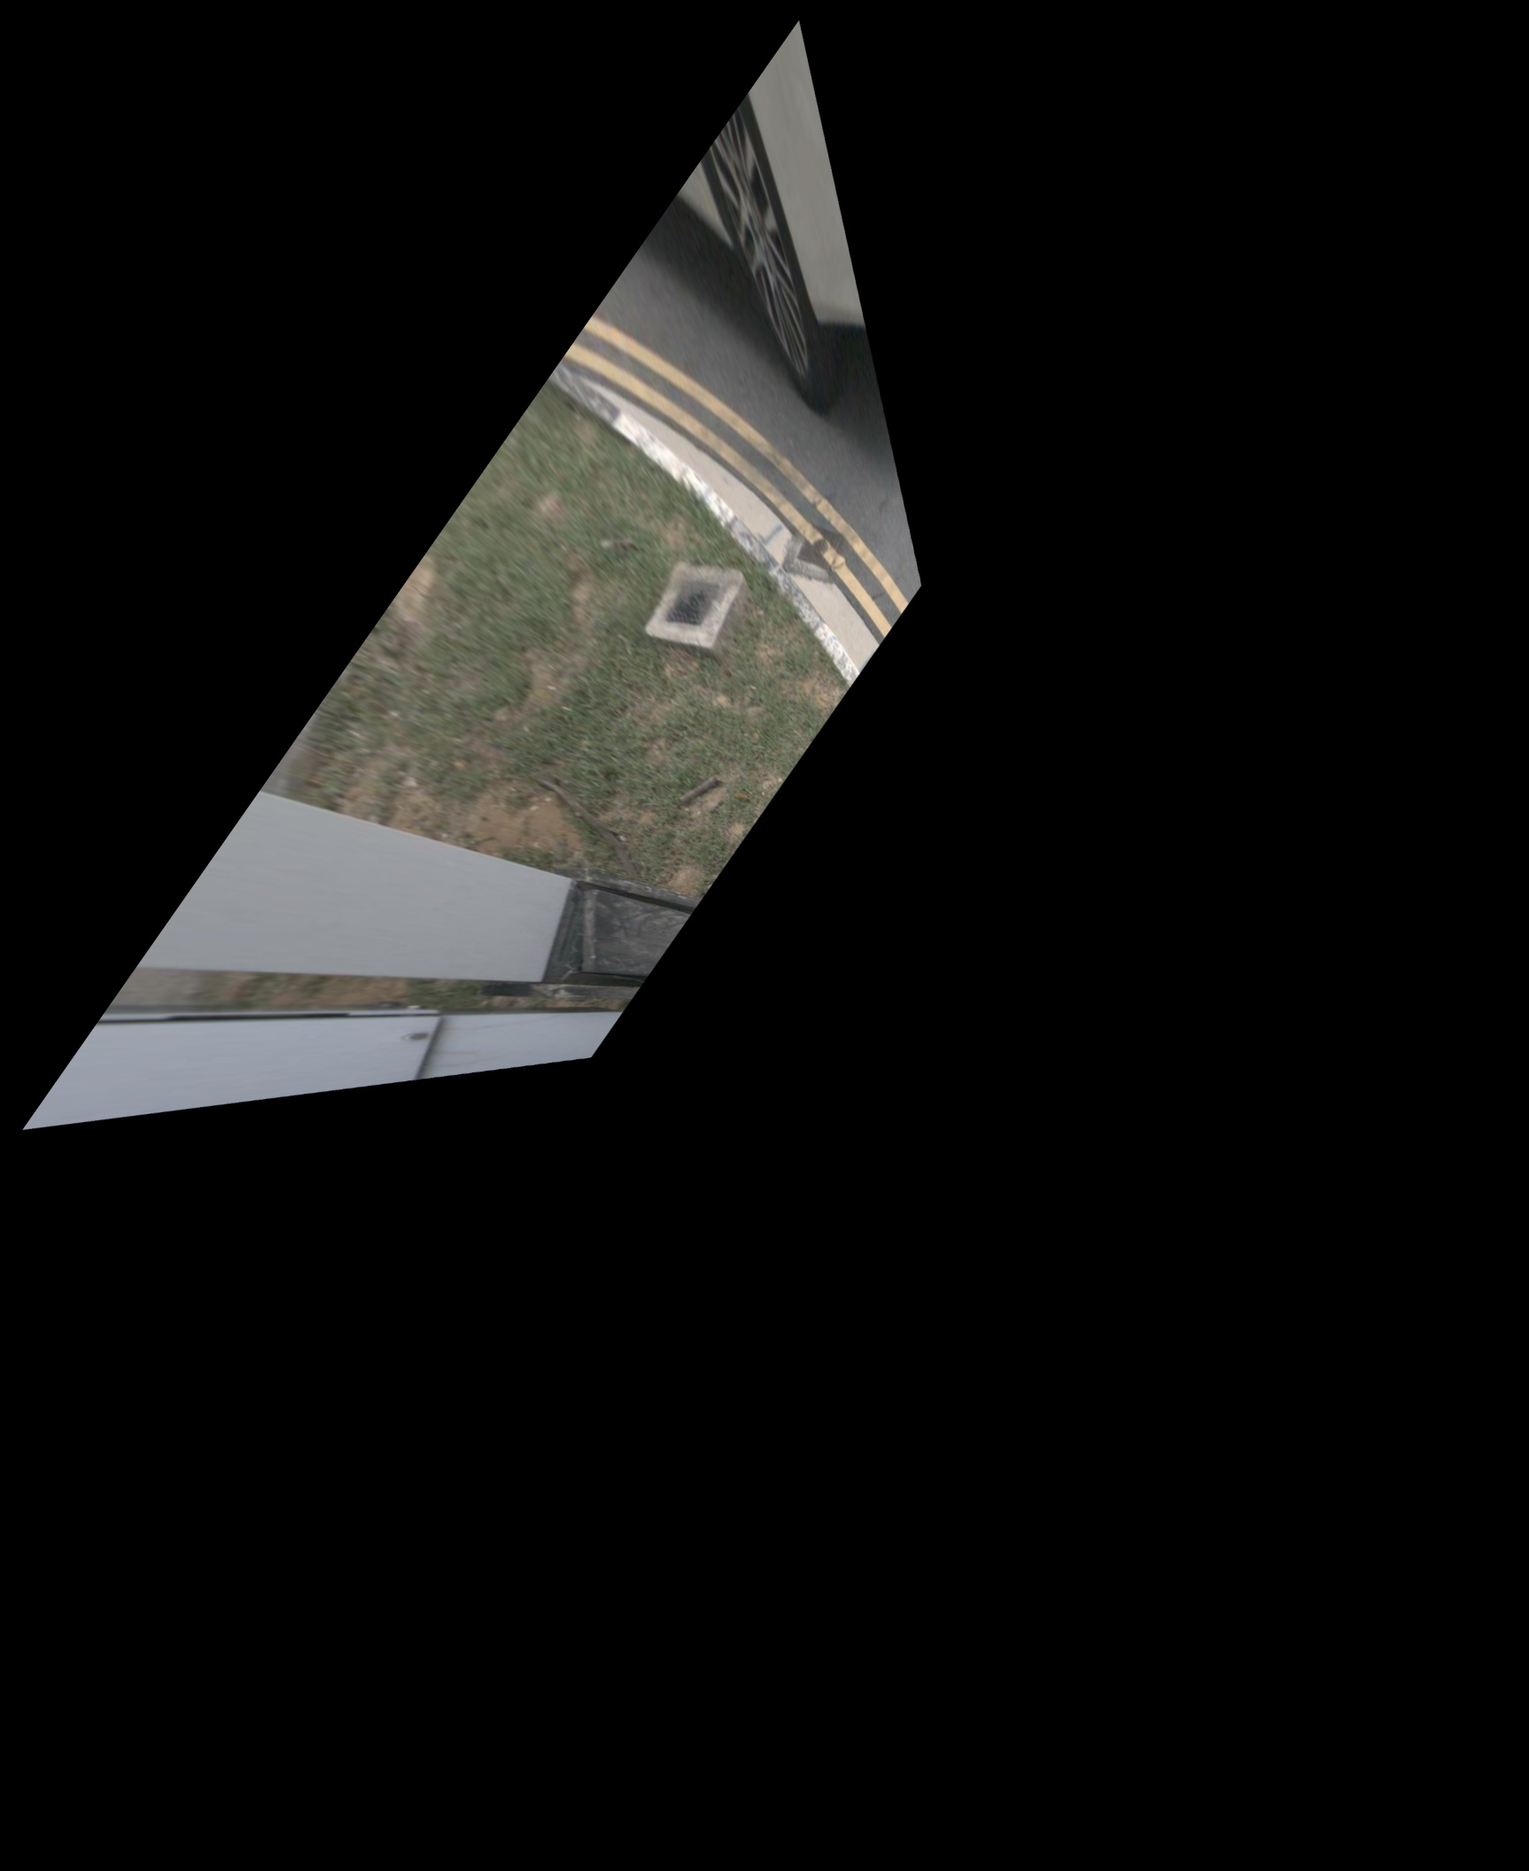
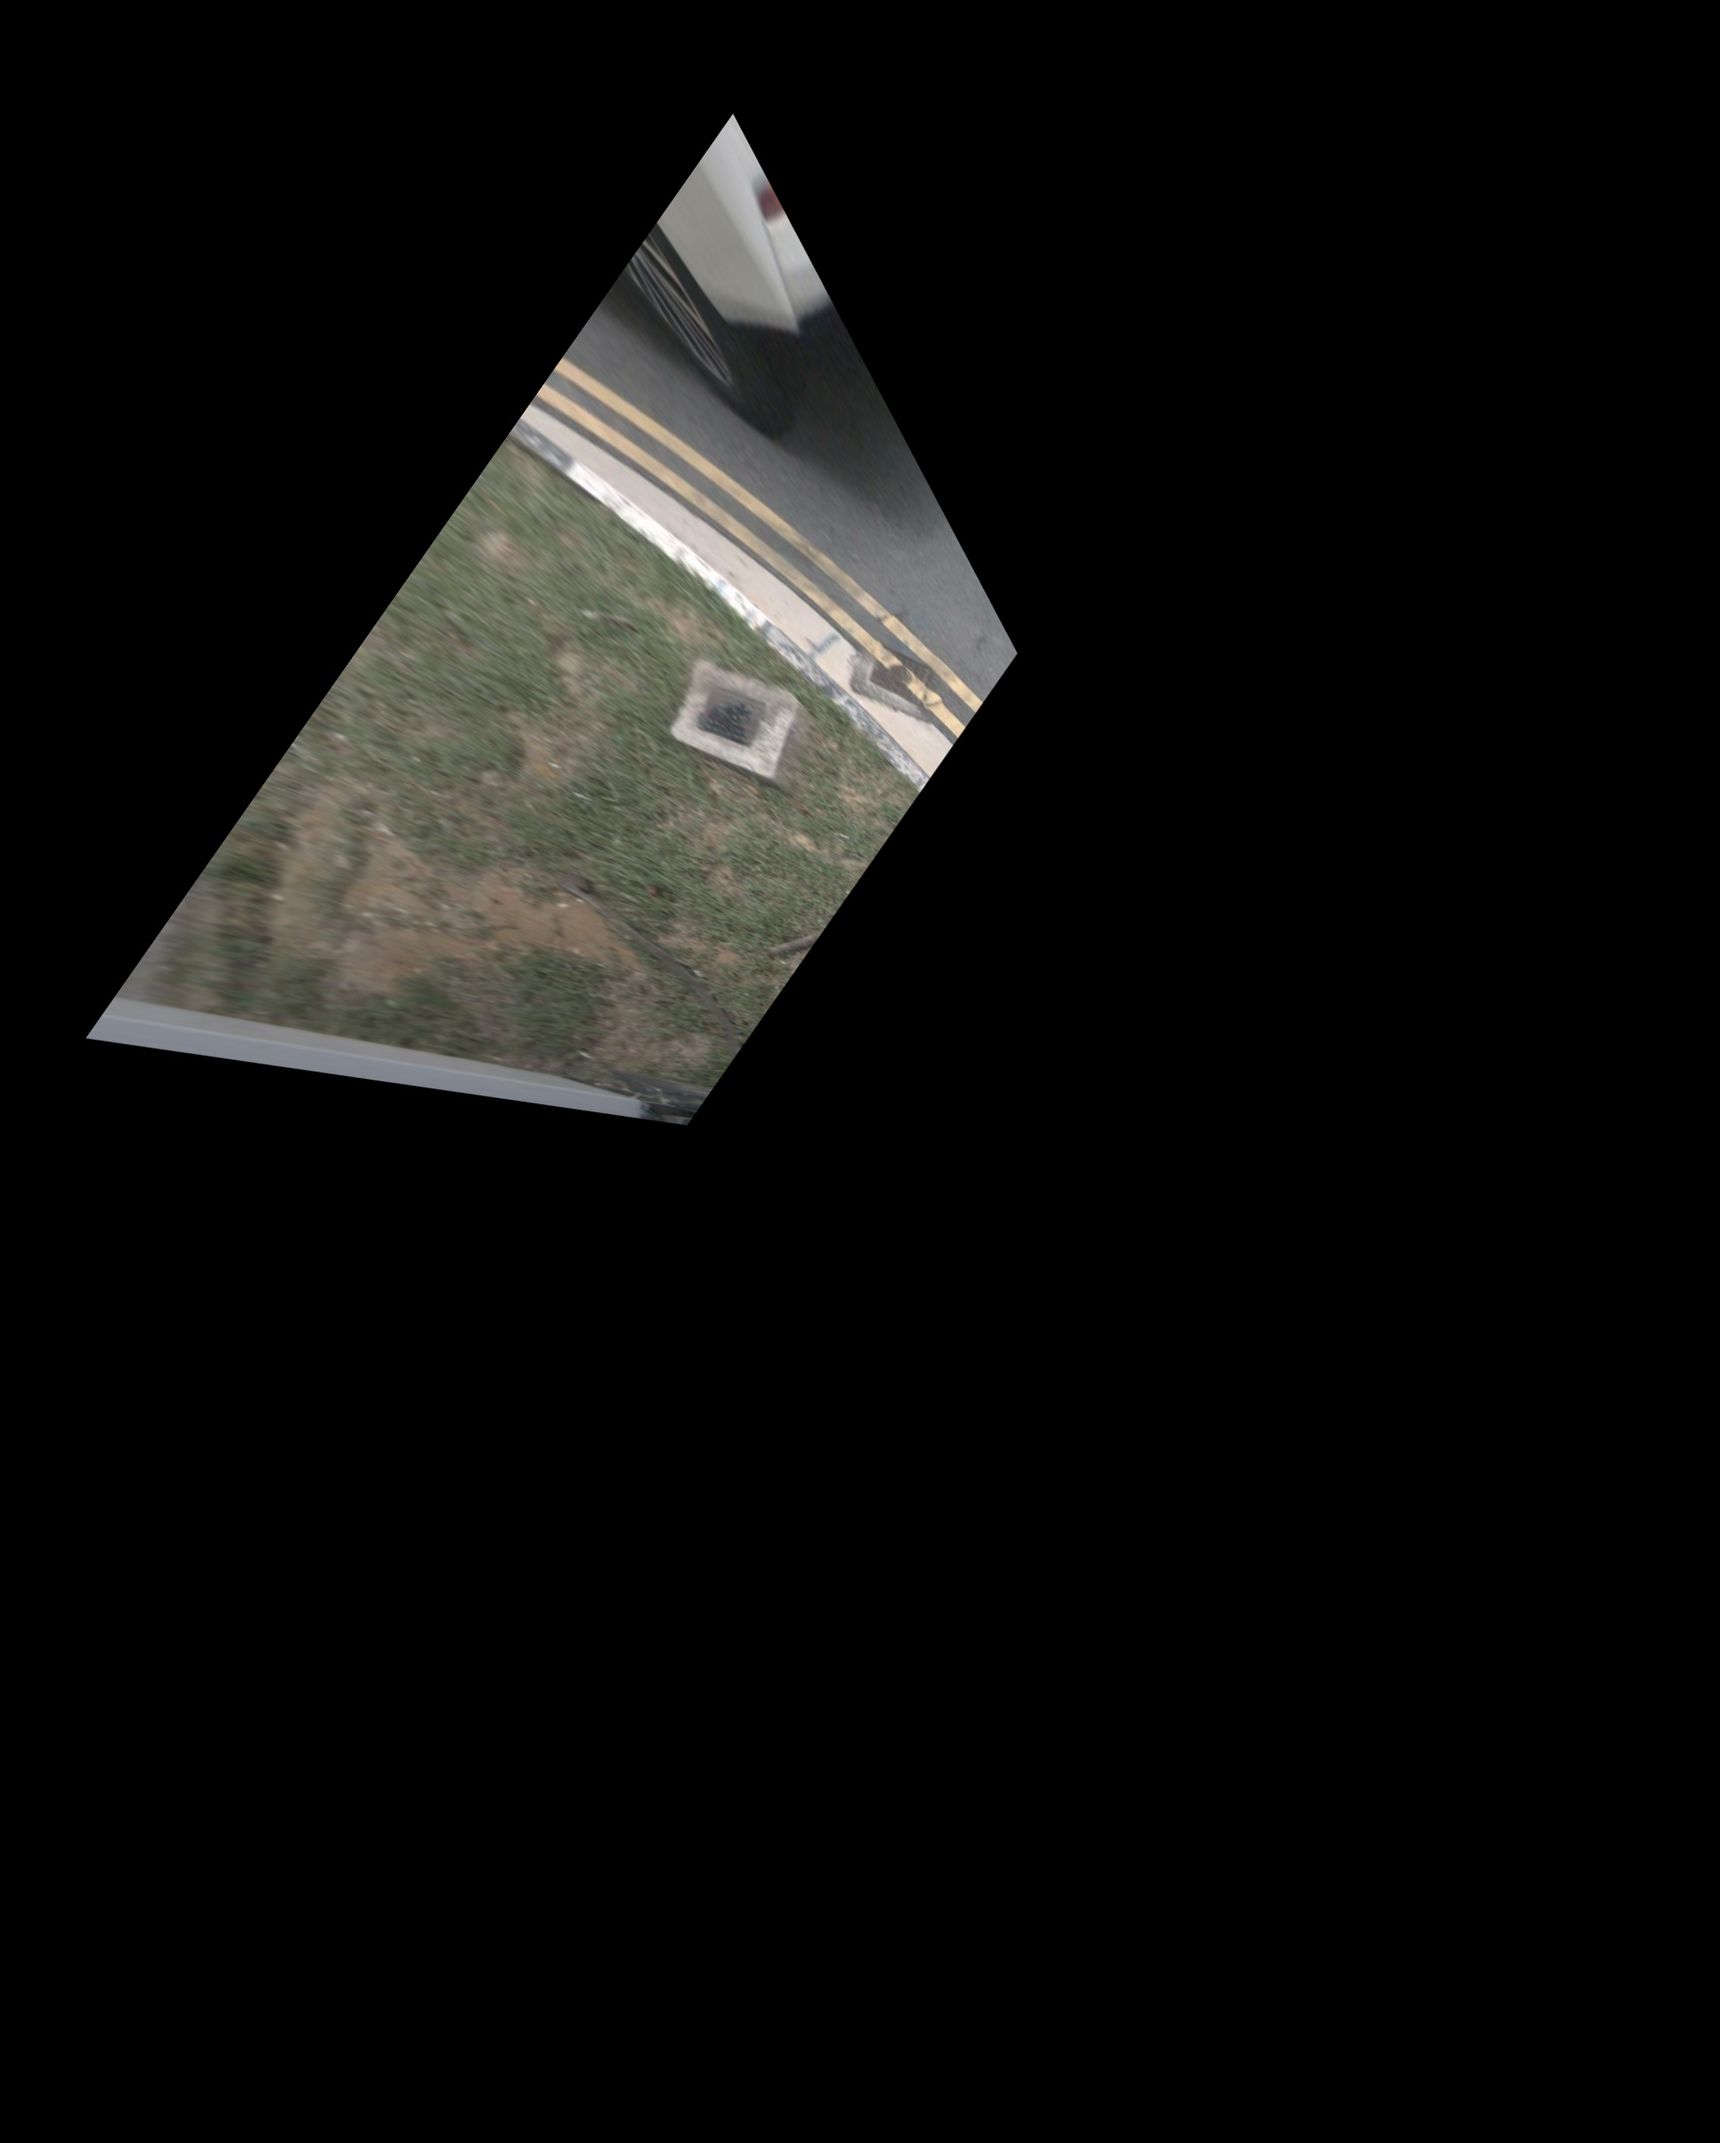
try test diff params & remove back img

Changed region(s): [[0.0, 0.0, 0.6141, 0.6158]]

diff --git a/src/image_process.cpp b/src/image_process.cpp
@@ -90,23 +90,23 @@ cv::Mat ImageProcess::CutImageMask(cv::Mat image){
     cv::threshold(mask, mask, 1, 255, cv::THRESH_BINARY);
 
     // Shi-Tomasi corners detection
-    // cv::Mat mask_with_corner = mask.clone();
-    // std::vector<cv::Point2f> corners;   // corners's postion
-	// int maxcorners = 4;                 // maximal corners' number to be detected
-	// double qualityLevel = 0.1;          // minimal eigenvalue
-	// double minDistance = 600;	        // minimal distance between corners
-	// int blockSize = 25;
-	// double  k = 0.04;                   // weight coefficient
+    cv::Mat mask_with_corner = mask.clone();
+    std::vector<cv::Point2f> corners;   // corners's postion
+	int maxcorners = 6;                 // maximal corners' number to be detected
+	double qualityLevel = 0.1;          // minimal eigenvalue
+	double minDistance = 400;	        // minimal distance between corners
+	int blockSize = 50;
+	double  k = 0.04;                   // weight coefficient
  
-	// cv::goodFeaturesToTrack(mask_with_corner, corners, maxcorners, qualityLevel, minDistance, cv::Mat(), blockSize, false, k);
+	cv::goodFeaturesToTrack(mask_with_corner, corners, maxcorners, qualityLevel, minDistance, cv::Mat(), blockSize, false, k);
  
-	// std::cout << "Corners number: " << corners.size() << std::endl; // output info
+	std::cout << "Corners number: " << corners.size() << std::endl; // output info
 
-	// for (unsigned i = 0; i < corners.size(); i++)
-	// {
-	// 	circle(mask_with_corner, corners[i], 10, cv::Scalar(0,255,255),4);  // draw corners
-	// 	std::cout << "Corner location: " << corners[i] << std::endl;     // output corners' position
-	// }
+	for (unsigned i = 0; i < corners.size(); i++)
+	{
+		circle(mask_with_corner, corners[i], 10, cv::Scalar(0,255,255),4);  // draw corners
+		std::cout << "Corner location: " << corners[i] << std::endl;     // output corners' position
+	}
 
     // detect outline
     // std::vector<std::vector<cv::Point>> contours;
@@ -118,7 +118,7 @@ cv::Mat ImageProcess::CutImageMask(cv::Mat image){
     //     cv::drawContours(image, contours, index, (0,0,255), 2,8,hierarchy);
 	// }
 
-    return mask;
+    return mask_with_corner;
 }
 
 cv::Mat ImageProcess::RotateImage(cv::Mat image, int w, int h, double angle, double scale){
@@ -142,7 +142,7 @@ cv::Mat ImageProcess::JoinBEVImage(){
     // rotate images
     image_front_left_ = RotateImage(image_front_left_, image_front_left_.cols, image_front_left_.rows, 55, 1);
     image_front_right_ = RotateImage(image_front_right_, image_front_right_.cols, image_front_right_.rows, -55, 1);
-    cv::rotate(image_back_, image_back_, cv::ROTATE_180);
+    // cv::rotate(image_back_, image_back_, cv::ROTATE_180);
     cv::rotate(image_back_right_, image_back_right_, cv::ROTATE_180);
     cv::rotate(image_back_left_, image_back_left_, cv::ROTATE_180);
     image_back_right_ = RotateImage(image_back_right_, image_back_right_.cols, image_back_right_.rows, 70, 1);
@@ -153,14 +153,14 @@ cv::Mat ImageProcess::JoinBEVImage(){
 	int w2 = image_front_.cols;         int h2 = image_front_.rows;
     int w3 = image_front_right_.cols;   int h3 = image_front_right_.rows;
     int w4 = image_back_right_.cols;    int h4 = image_back_right_.rows;
-	int w5 = image_back_.cols;          int h5 = image_back_.rows;
+	// int w5 = image_back_.cols;          int h5 = image_back_.rows;
     int w6 = image_back_left_.cols;     int h6 = image_back_left_.rows;
 
     cv::Mat mask_front_left = CutImageMask(image_front_left_);
     cv::Mat mask_front = CutImageMask(image_front_);
     cv::Mat mask_front_right = CutImageMask(image_front_right_);
     cv::Mat mask_back_right = CutImageMask(image_back_right_);
-    cv::Mat mask_back = CutImageMask(image_back_);
+    // cv::Mat mask_back = CutImageMask(image_back_);
     cv::Mat mask_back_left = CutImageMask(image_back_left_);
     
     // save image to test 
@@ -172,7 +172,7 @@ cv::Mat ImageProcess::JoinBEVImage(){
     // cv::imwrite("/home/renjie/workspace/catkin_ws/src/BEV_lidar_cali/images/test_img/test_img_back_right.jpg",image_back_right_);
 
     // joint images
-	int width = 5000; int height = 4000;
+	int width = 3500; int height = 3500;
     result_image = cv::Mat(height, width, CV_8UC3, cv::Scalar::all(0));
 	// cv::Mat result_image_1 = cv::Mat(height, width, CV_8UC3, cv::Scalar::all(0));
 	// cv::Mat ROI_1 = result_image_1(cv::Rect(0,                    0, w1, h1));
@@ -188,21 +188,21 @@ cv::Mat ImageProcess::JoinBEVImage(){
     // cv::Mat ROI_6 = result_image_6(cv::Rect(20,                   1303-413, w6, h6));
 
     //============polygon corner points=============
-    int x_fl_1 = 667; int y_fl_1 = 1190; int x_fl_2 = 1045; int y_fl_2 = 661; 
-    int x_f_1 = 471;  int y_f_1 = 477;   int x_f_2 = 1122;  int y_f_2 = 478;
-    int x_fr_1 = 480; int y_fr_1 = 640;  int x_fr_2 = 857;  int y_fr_2 = 1178;
-    int x_bl_1 = 617; int y_bl_1 = 538;  int x_bl_2 = 846;  int y_bl_2 = 1135;
-    int x_b_1 = 475;  int y_b_1 = 131;   int x_b_2 = 1148;  int y_b_2 = 132;
-    int x_br_1 = 407; int y_br_1 = 1140; int x_br_2 = 625;  int y_br_2 = 527;
+    int x_fl_1 = 773; int y_fl_1 = 1270; int x_fl_2 = 1151; int y_fl_2 = 740; 
+    int x_f_1 = 475;  int y_f_1 = 600;   int x_f_2 = 1119;  int y_f_2 = 600;
+    int x_fr_1 = 691; int y_fr_1 = 709;  int x_fr_2 = 1063;  int y_fr_2 = 1251;
+    int x_bl_1 = 746; int y_bl_1 = 623;  int x_bl_2 = 971;  int y_bl_2 = 1216;
+    int x_b_1 = 272;  int y_b_1 = 18;   int x_b_2 = 1401;  int y_b_2 = 20;
+    int x_br_1 = 637; int y_br_1 = 1220; int x_br_2 = 853;  int y_br_2 = 615;
     //============polygon corner points=============
 
     //==========image position - start xy===========
     int X_fl = 0;                       int Y_fl = 0;
     int X_f = x_fl_2 - x_f_1;           int Y_f = y_fl_2 - y_f_1;
-    int X_fr = X_f + x_f_2 - x_fr_1;    int Y_fr = 0;
+    int X_fr = X_f + x_f_2 - x_fr_1;    int Y_fr = Y_f + y_f_2 - y_fr_1;
     int X_bl = x_fl_1 - x_bl_1;         int Y_bl = y_fl_1 - y_bl_1;
     int X_b = X_bl + x_bl_2 - x_b_1;    int Y_b = Y_bl + y_bl_2 - y_b_1;
-    int X_br = X_fr + x_fr_2 - x_br_2;  int Y_br = y_fr_2 - y_br_2;
+    int X_br = X_fr + x_fr_2 - x_br_2;  int Y_br = Y_fr + y_fr_2 - y_br_2;
     int vehicle_X = X_f+x_f_1;          int vehicle_Y = y_fl_1; 
     int vehicle_W = x_f_2 - x_f_1;      int vehicle_H = Y_b + y_b_1 - y_f_1;
     //==========image position - start xy===========
@@ -213,9 +213,9 @@ cv::Mat ImageProcess::JoinBEVImage(){
 	cv::Mat ROI_1 = result_image(cv::Rect(X_fl, Y_fl, w1, h1));        // front_left
 	cv::Mat ROI_2 = result_image(cv::Rect(X_f,  Y_f,  w2, h2));        // front
     cv::Mat ROI_3 = result_image(cv::Rect(X_fr, Y_fr, w3, h3));        // front_right
-    cv::Mat ROI_4 = result_image(cv::Rect(X_br+20, Y_br, w4, h4));     // back_right
-    cv::Mat ROI_5 = result_image(cv::Rect(X_b,  Y_b, w5, h5));         // back
-    cv::Mat ROI_6 = result_image(cv::Rect(X_bl-2, Y_bl, w6, h6));      // back_left
+    cv::Mat ROI_4 = result_image(cv::Rect(X_br, Y_br, w4, h4));     // back_right
+    // cv::Mat ROI_5 = result_image(cv::Rect(X_f,  Y_b, w5, h5));         // back
+    cv::Mat ROI_6 = result_image(cv::Rect(X_bl, Y_bl, w6, h6));      // back_left
     cv::Mat ROI_7 = result_image(cv::Rect(vehicle_X, vehicle_Y, vehicle_W, vehicle_H));    // vehicle_model
 
     //=============test1==================
@@ -227,13 +227,12 @@ cv::Mat ImageProcess::JoinBEVImage(){
     // cv::Mat ROI_6 = result_image(cv::Rect(20,                   1303-413, w6, h6));
     // cv::Mat ROI_7 = result_image(cv::Rect(1205,                 685, 802, 1432-65));
     //=============test1==================
-
+    image_front_.copyTo(ROI_2, mask_front);
     image_front_left_.copyTo(ROI_1, mask_front_left);
     image_front_right_.copyTo(ROI_3, mask_front_right);
-    image_front_.copyTo(ROI_2, mask_front);
+    // image_back_.copyTo(ROI_5, mask_back);
 	image_back_right_.copyTo(ROI_4, mask_back_right);
     image_back_left_.copyTo(ROI_6, mask_back_left);
-    image_back_.copyTo(ROI_5, mask_back);
 
     // result_image = FuseImage(FuseImage(FuseImage(FuseImage(FuseImage(result_image_1, result_image_2), result_image_3), result_image_4), result_image_5), result_image_6);
 
@@ -254,7 +253,7 @@ cv::Mat ImageProcess::PerspectiveTransform(cv::Mat image, std::vector<cv::Point3
     //**parameters of ROI area cut from camera images**//
     float roi_x0=0;
     float roi_y0=0;
-    float ROI_HEIGHT=5000;
+    float ROI_HEIGHT=8000;
     float ROI_WIDTH=1600;
     //************************//
 
@@ -264,15 +263,15 @@ cv::Mat ImageProcess::PerspectiveTransform(cv::Mat image, std::vector<cv::Point3
     //=============test1==================
 
     cv::Point2f P1, P2, P3, P4;
-    P3.x = points[0].x; P3.y = 900 - points[0].y;
-    P4.x = points[1].x; P4.y = 900 - points[1].y;
-    P1.x = points[2].x; P1.y = 900 - points[2].y;
-    P2.x = points[3].x; P2.y = 900 - points[3].y;
+    P1.x = points[0].x; P1.y = 900 - points[0].y;
+    P2.x = points[1].x; P2.y = 900 - points[1].y;
+    P3.x = points[2].x; P3.y = 900 - points[2].y;
+    P4.x = points[3].x; P4.y = 900 - points[3].y;
 
-    corners.push_back(P1);
-    corners.push_back(P2);
     corners.push_back(P3);
     corners.push_back(P4);
+    corners.push_back(P1);
+    corners.push_back(P2);
 
     // set width of perspective image
     float IPM_WIDTH=1600;
@@ -307,19 +306,31 @@ cv::Mat ImageProcess::BirdEyeView(std::vector<cv::Mat> images){
     // directly choose points in camera coordinate
     std::vector<cv::Point3f> real_points;
     std::vector<cv::Point3f> points;
+    std::vector<cv::Point3f> real_back_points;
 
     //=============test1==================
     // cv::Point3f P1(-5.f, -10.f, 20.f), P2(5.f, -10.f, 20.f), 
     //             P3(-5.f, -10.f, 30.f), P4(5.f, -10.f, 30.f);
     //=============test1==================
 
-    cv::Point3f P1(-5.f, -10.f, 15.f), P2(5.f, -10.f, 15.f), 
-                P3(-5.f, -10.f, 60.f), P4(5.f, -10.f, 60.f);
+    // cv::Point3f P1(-5.f, -10.f, 10.f), P2(5.f, -10.f, 10.f), 
+    //             P3(-5.f, -10.f, 60.f), P4(5.f, -10.f, 60.f);
+
+    cv::Point3f P1(-5.f, -10.f, 10.f), P2(5.f, -10.f, 10.f), 
+                P3(-5.f, -10.f, 50.f), P4(5.f, -10.f, 50.f);
 
     real_points.push_back(P1);
     real_points.push_back(P2);
     real_points.push_back(P3);
     real_points.push_back(P4);
+
+    cv::Point3f Pb1(-5.f, -10.f, 35.f), Pb2(5.f, -10.f, 35.f), 
+                Pb3(-5.f, -10.f, 50.f), Pb4(5.f, -10.f, 50.f);
+
+    real_back_points.push_back(Pb1);
+    real_back_points.push_back(Pb2);
+    real_back_points.push_back(Pb3);
+    real_back_points.push_back(Pb4);
 
     // transform images
     ParamProcess processor;
@@ -336,7 +347,7 @@ cv::Mat ImageProcess::BirdEyeView(std::vector<cv::Mat> images){
     points = processor.GetPoints(real_points, "CAM_BACK_RIGHT");
     image_back_right_ = PerspectiveTransform(images[3], points);
 
-    points = processor.GetPoints(real_points, "CAM_BACK");
+    points = processor.GetPoints(real_back_points, "CAM_BACK");
     image_back_ = PerspectiveTransform(images[4], points);
 
     points = processor.GetPoints(real_points, "CAM_BACK_LEFT");
@@ -346,7 +357,7 @@ cv::Mat ImageProcess::BirdEyeView(std::vector<cv::Mat> images){
     // cv::resize(image_back_,image_back_,cv::Size(image_back_.cols * 1.4557, image_back_.rows));
     //=============test1==================
 
-    cv::resize(image_back_,image_back_,cv::Size(image_back_.cols * 1.49926, image_back_.rows));
+    // cv::resize(image_back_,image_back_,cv::Size(image_back_.cols * 1.49926, image_back_.rows));
 
     // join images
     result_image = JoinBEVImage();

diff --git a/test/test_cut_img.cpp b/test/test_cut_img.cpp
@@ -4,12 +4,11 @@ using namespace bevlidar;
 
 int main(int argc, char **argv){
     ImageProcess processor;
-    cv::Mat img = cv::imread("/home/renjie/workspace/catkin_ws/src/BEV_lidar_cali/images/test_img/test_img_front_right.jpg");
+    cv::Mat img = cv::imread("/home/renjie/workspace/catkin_ws/src/BEV_lidar_cali/images/test_img/test_img_back.jpg");
     img = processor.CutImageMask(img);
     std::cout << "image width: " << img.cols << std::endl;
     std::cout << "image height: " << img.rows << std::endl;
     cv::resize(img,img,cv::Size(1600,1000));
-    cv::cvtColor(img,img,cv::COLOR_BGR2BGRA);
     cv::imshow("cut_img", img);
 	cv::waitKey(0);
     return 0;
